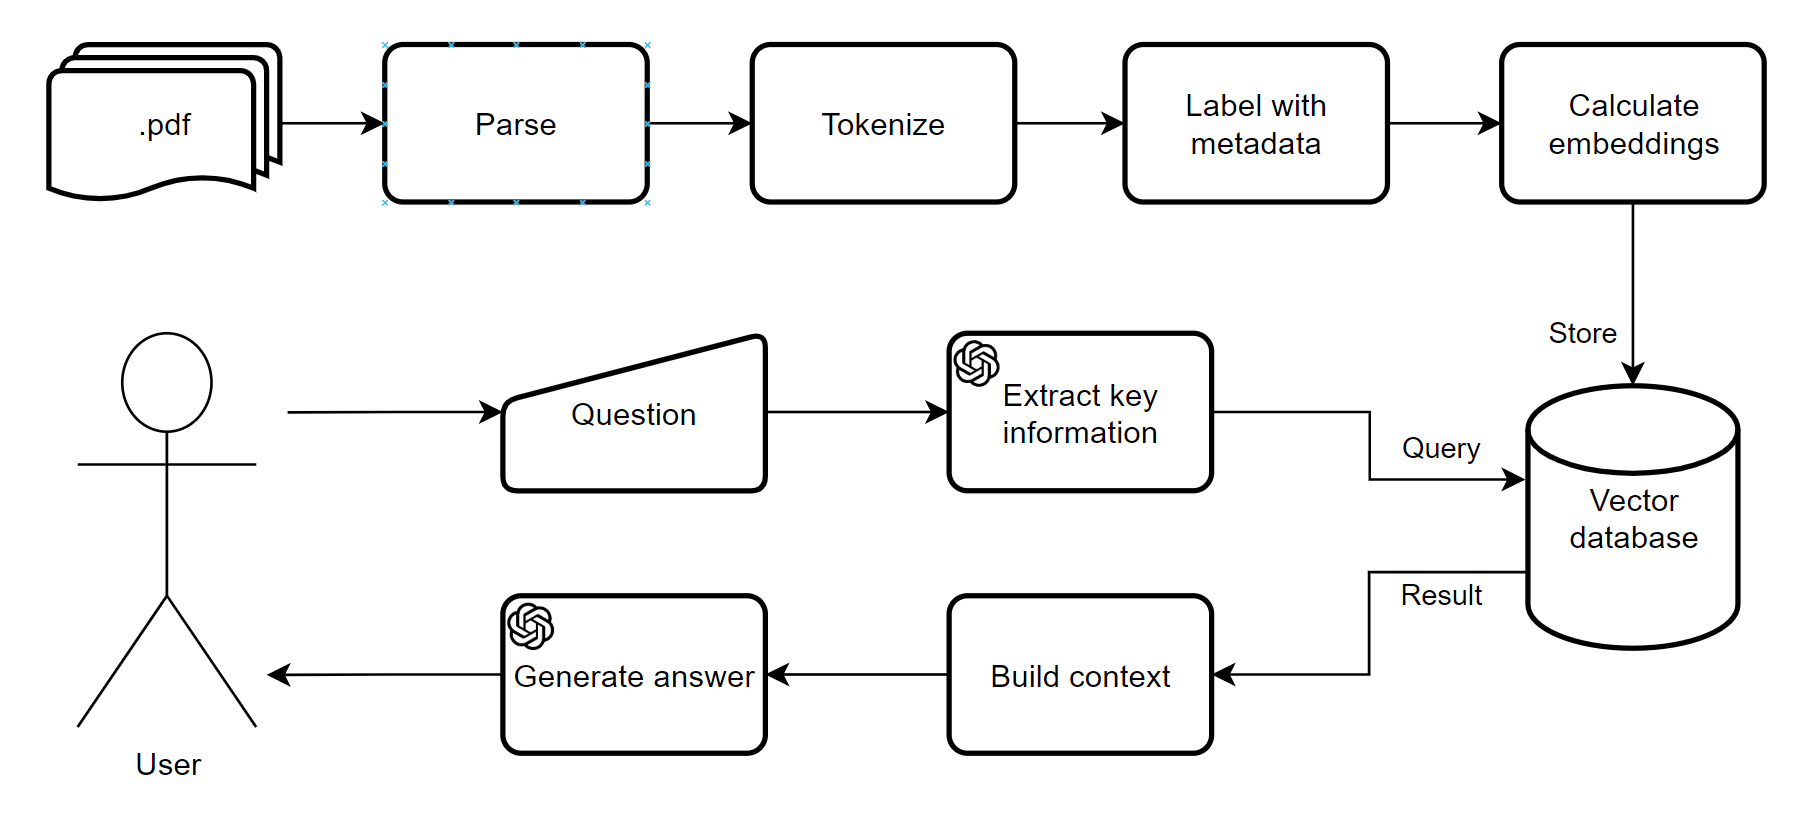
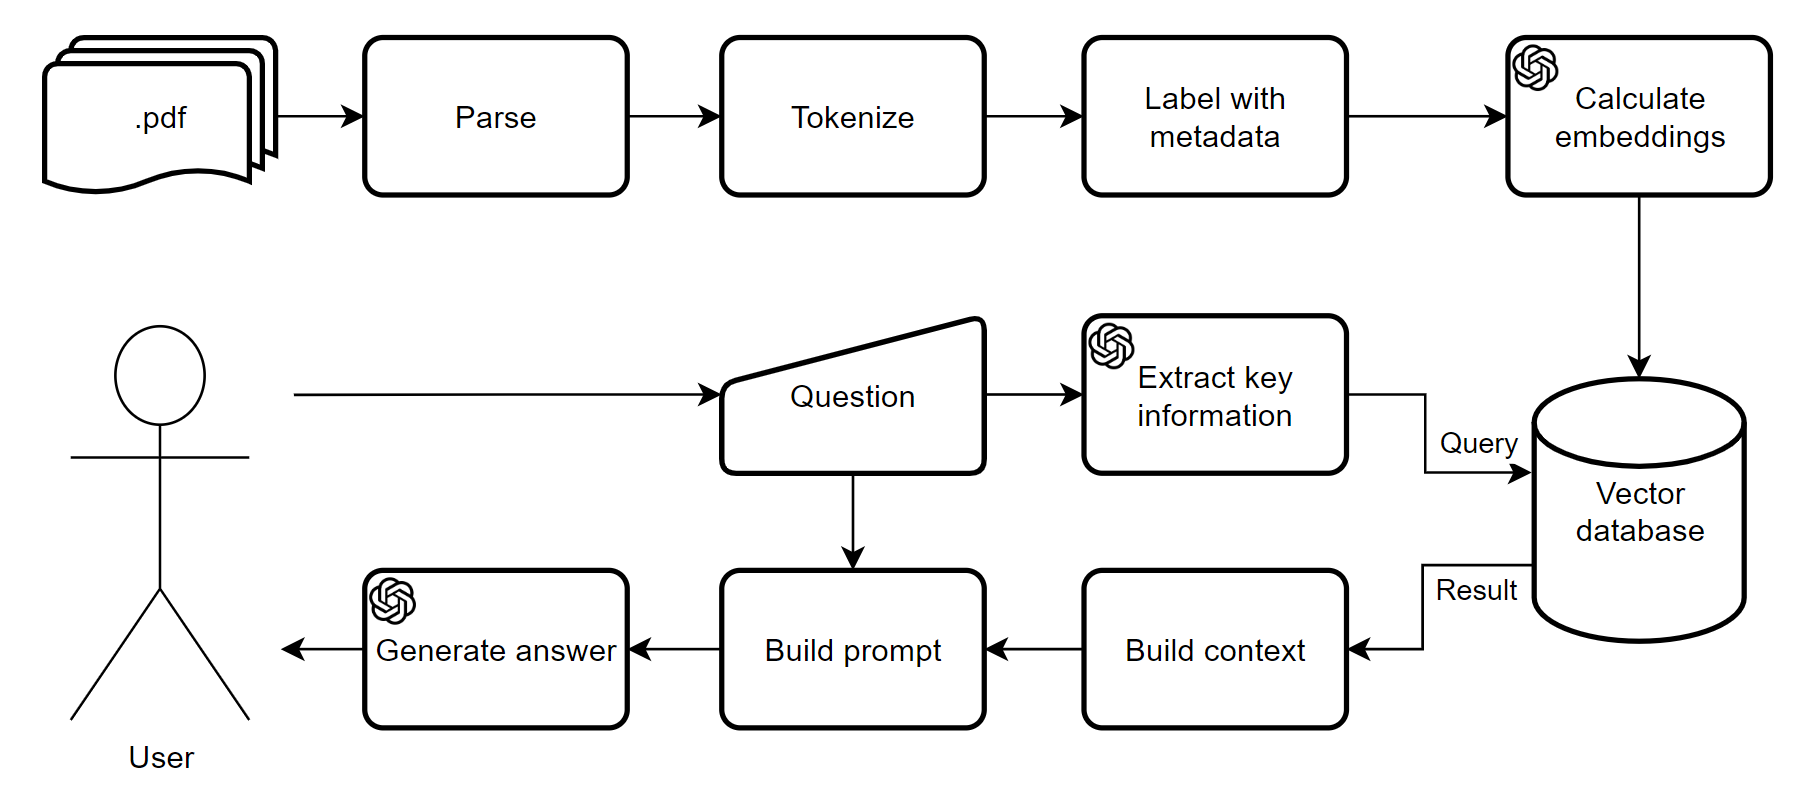
Updated diagram

diff --git a/README.md b/README.md
@@ -1,11 +1,11 @@
 # LLM-Chat-with-RAG
 
-This repository contains Jupyter Notebook proof of concept for LLM chat with Retrieval Augmented Generation from pdf files using embeddings in vector database.
+This repository contains Jupyter Notebook with proof of concept for LLM chat with Retrieval Augmented Generation from pdf files using embeddings in vector database.
 
 # Tech stack
 - **gpt-3.5-turbo-1106** - *LLM used for formulating answer based on context from files*
 - **all-MiniLM-L6-v2** - *embeddings model*
-- **chroma** - *vector data base to store embeddings*
+- **chroma** - *vector data base to store pdf's embeddings*
 - **pypdf** - *pdf parsing*
 
 # Setup
